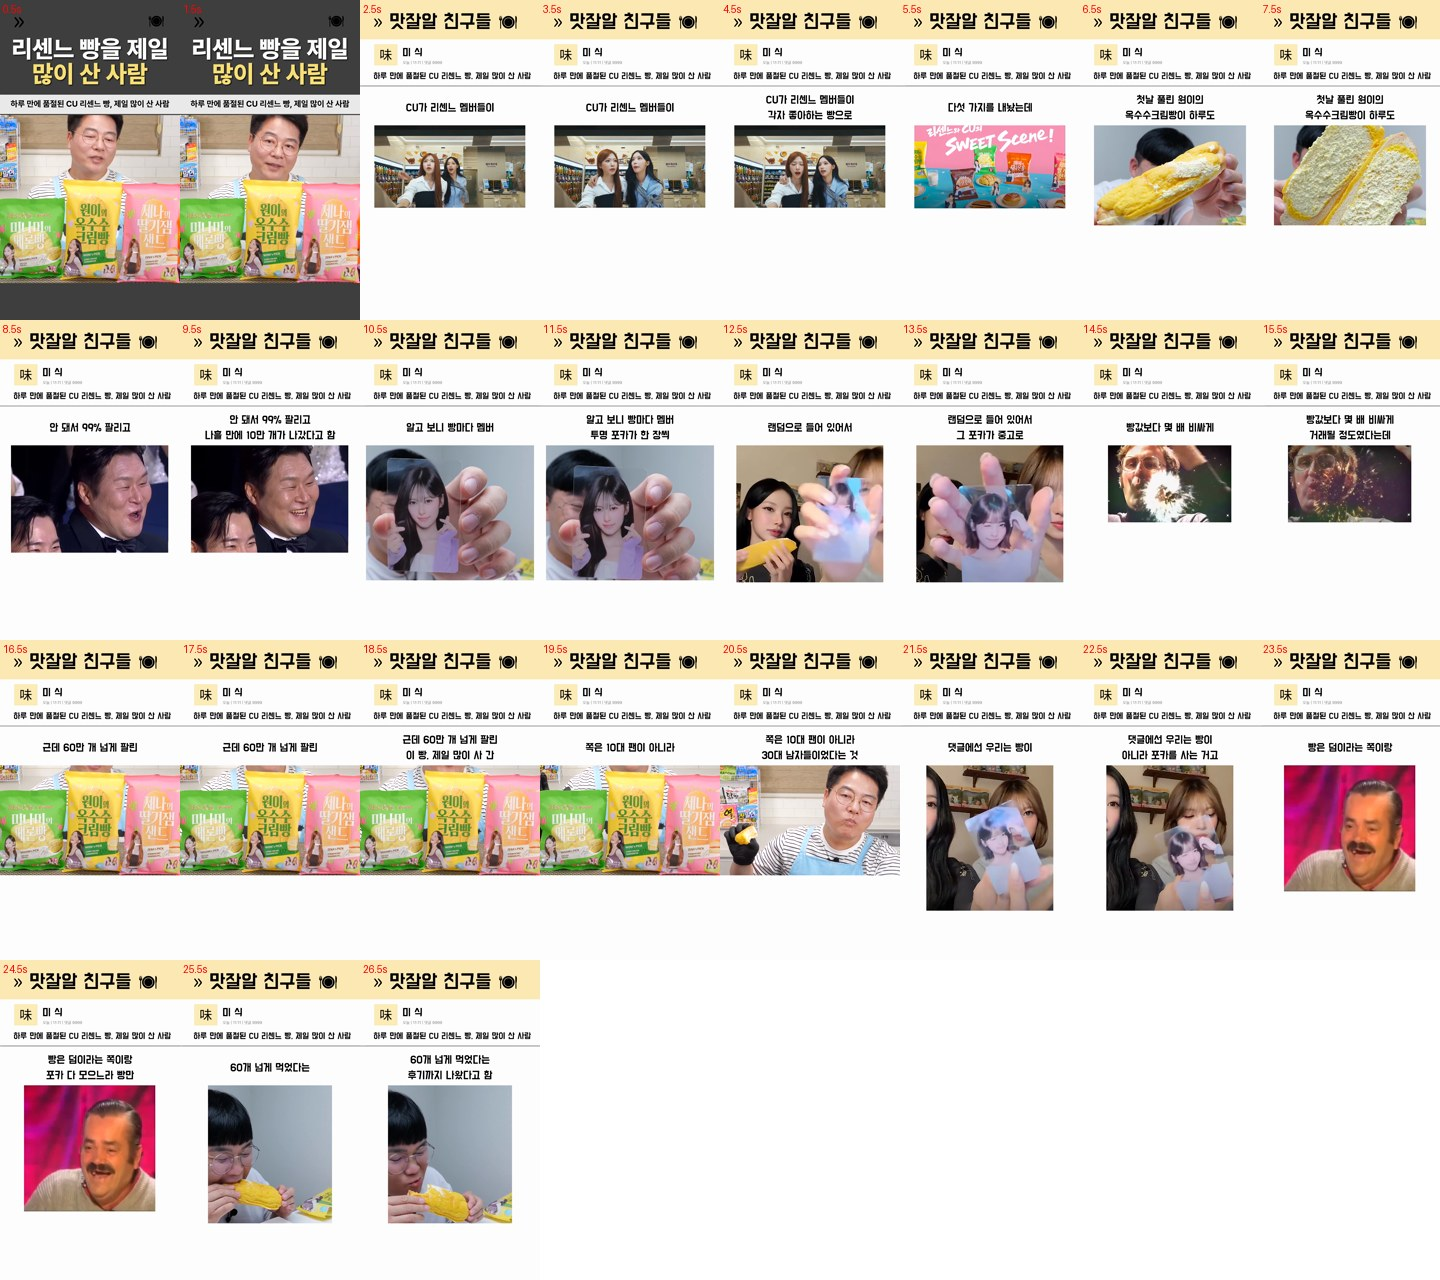
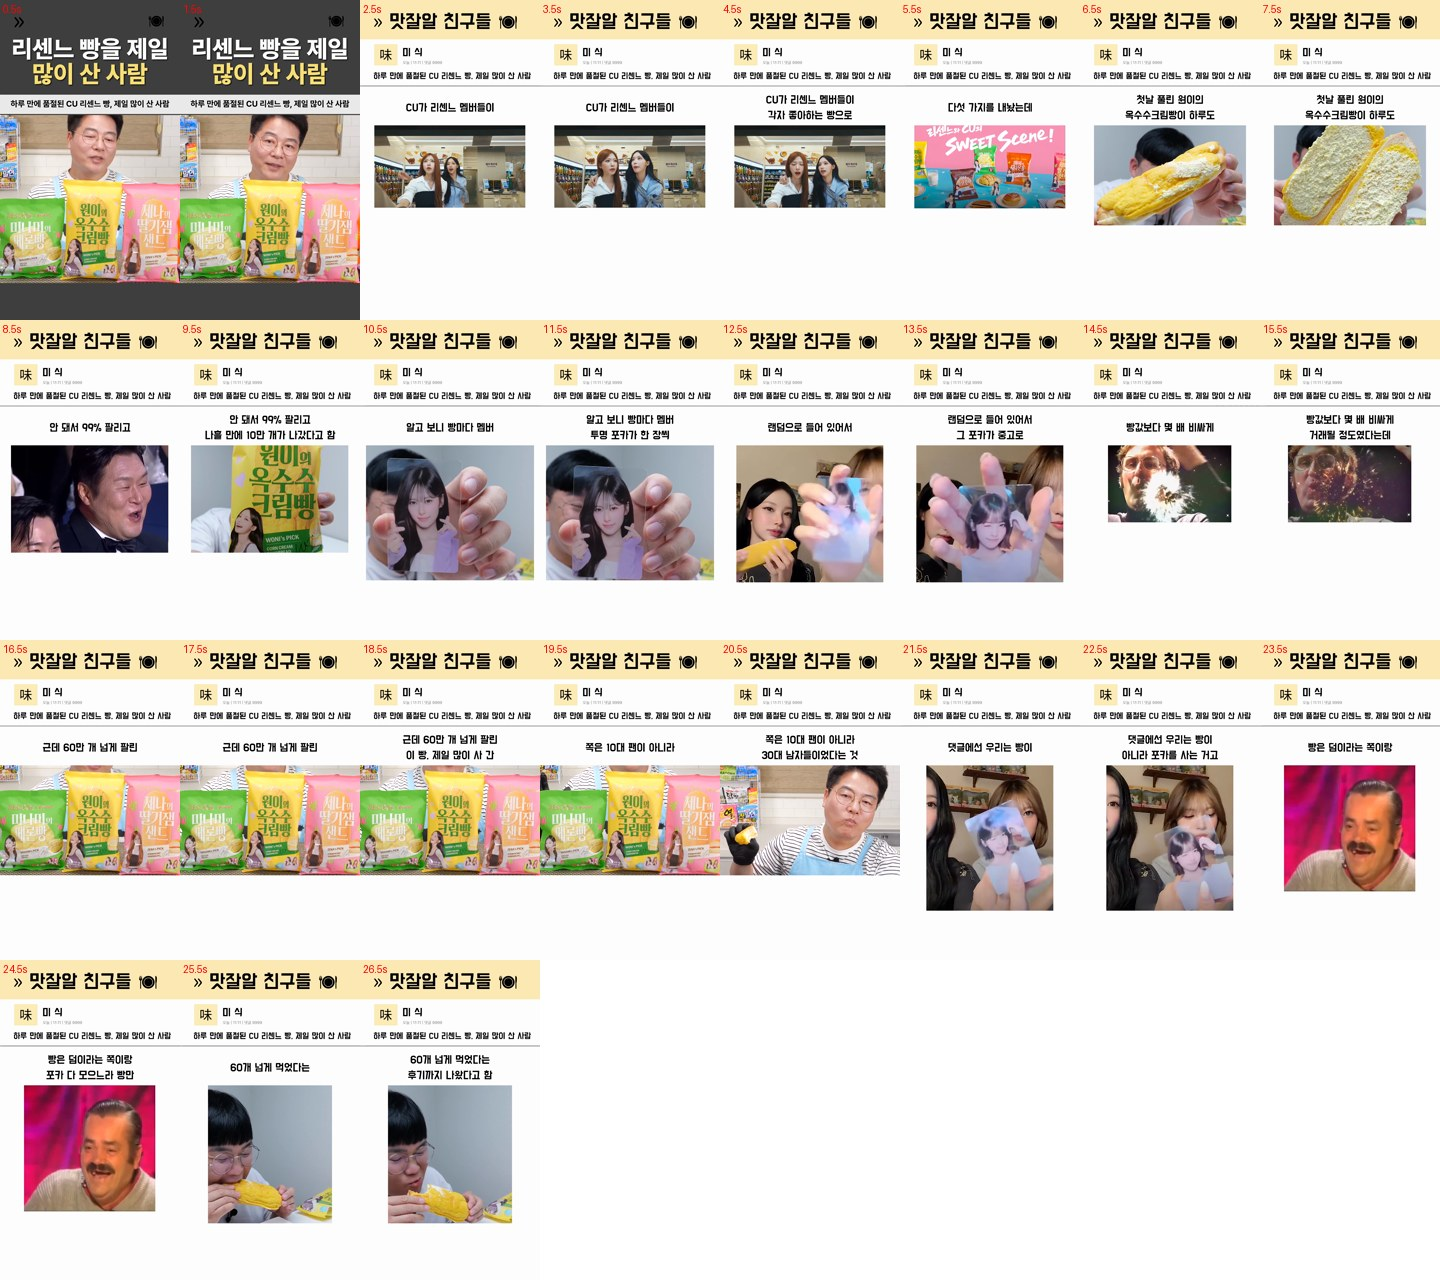
yummyknow 새 소재 2편 조건부 수정: #4 짤 1.6초 + 옥수수크림빵 봉지 1.3초 합성 → 짤 비율 0.204(TTS 없이 재렌더) · 측정 샷 수 11 vs timeline 13컷을 경계별로 갈라 기록(못 잡은 경계 5·경계 아닌 검출 3) (관제 097)
Claude-Session: https://claude.ai/code/session_01BTrZqzTa3Berb8VK4gs4B4

Changed region(s): [[0.125, 0.3438, 0.25, 0.4375]]

diff --git a/channel/yummyknow/새소재_rescene_bread/대조/규칙표.md b/channel/yummyknow/새소재_rescene_bread/대조/규칙표.md
@@ -1,5 +1,7 @@
 # 규칙 대조 — yummyknow 채널 규칙(뜯기 rGFXQlS9Cp4·10편) vs 새 소재 2편(CU 리센느 빵) (2026-10-16)
 
+(2026-10-16 재렌더: #4 짤 1.6초로 줄임, TTS 재호출 없음)
+
 판정 기준: "채널 영상들 사이에 섞어도 티가 안 나는가" — 1초 시트 눈 검수 + 이 표. bench ① 픽셀 대조는 참고(`대조/차이표.md`: 33개 중 14개 안 — 가변 그림 칸 꼴이라 1편 16/33·rGFX 16/32 과 같은 성격). 우리 값 = timeline.json·audio.json·narr_full.mp3 실측.
 
 | 항목 | 원본/채널 | 우리 | 같음? |
@@ -7,10 +9,10 @@
 | 갈래 | 썰(사건→반응→반전→결말) | 썰(리센느 빵 출시 → 하루 99% → 진짜 이유 포카 → 반전: 최다 구매 30대 남성 → 댓글 '빵은 덤') | 같음 |
 | 길이 | 33.6초 | 27.4초 | **짧음(−18.6%, 기준 15% 밖)** — 대본 242자 × 8.82자/초 |
 | 틀 | 훅 카드 1.2~2.1초 → 흰 게시글, 헤더 연두/연노랑 두 갈래 | 훅 2.44초 → 게시글, **연노랑 갈래**(헤더 254,234,180·훅 2줄 노랑) | 같음(훅 0.3초 김 — 1편과 같음) |
-| 재료 비율(시간) | 남의영상재편집 0.80 · 짤 0.20 | 같은 소재 영상 0.75 · 우리 짤 팩 0.25 | **짤 +0.05** — 짤 #4 컷이 2.87초로 김(짤 2.24초 되풀이) |
+| 재료 비율(시간) | 남의영상재편집 0.80 · 짤 0.20 | **같은 소재 영상 0.796 · 우리 짤 팩 0.204**(재렌더 뒤 timeline.json 실측 — #4 를 짤 1.6초 + 옥수수크림빵 봉지 1.3초 합성으로) | 같음 |
 | 다른 제품·남의 그래픽 | 없음 | 없음 — 남의 자막·'짠!'·'그립감 좋다~'·출처 표기·로고·가격 라벨 src_crop 으로 뺌(1초 시트 확인) | 같음 |
-| 컷 수 / 컷 길이 중앙 | 15 / 1.97초 | 13(계획) · 측정 10 / 2.22초 | 비슷(+12.7%) — 측정 샷 수 10 < 계획 13: 장면 검출이 같은 소스가 이어지는 #8→#9(봉지 줄 연장) 같은 경계를 못 잡은 것으로 추정(컷별 대조는 안 함) |
-| 컷 길이 p90 | 3.2초 | 3.97초(측정) | 다름(+24%, 위 샷 병합 추정과 같은 원인으로 봄 — 미검증) |
+| 컷 수 / 컷 길이 중앙 | 15 / 1.97초 | timeline.json 13컷(경계 12) / 측정 2.00초 | 같음(+1.7%) |
+| 컷 길이 p90 | 3.2초 | 3.73초(측정) | 다름(+16.7%) — 아래 '측정 샷 수' 참고 |
 | 자막 | 누적형 1줄→2줄, 검정, 외곽선 없음 | 같음 | 같음 |
 | 자막 수 / 자막당 초 중앙 | 29 / 1.0초 | 23(측정) · 25단계(계획) / 1.0초 | 같음 |
 | 자막 등장 효과·강조색 | 없음 | 없음 | 같음 |
@@ -23,3 +25,11 @@
 | True Peak | −3.7 | −0.9 | 참고 |
 | 효과음 | 2발(시작·끝) | 2발(0초 swoosh_2 id80 · 27.23초 r3_pop_3 id78) | 같음 |
 | #9 나이 암시 | — | 조율자 지시대로 "30대 남자들" 줄 앞 절반 = 봉지 5종(8번 이어서), 뒤 절반만 남성 리뷰어 | 반영 |
+
+## 측정 샷 수(11) vs timeline.json 컷(13) — 갈라 본 것 (재렌더본, compare 와 같은 cuts.scene_detect·merge_close·cut_verify, 창 [0,752,1080,810])
+
+- timeline.json 경계 12개: 2.44 · 4.61 · 5.60 · 7.49 · 10.36 · 12.25 · 14.17 · 16.17 · 18.52 · 21.21 · 23.32 · 25.32
+- 검출 10개: 2.43 · 5.63 · 6.97 · 9.17 · 10.40 · 12.30 · 14.23 · 16.23 · 19.97 · 21.30
+- **못 잡은 경계 5개**: 4.61(#1 CU 매장→#2 키비주얼) · 7.49(#3 빵 근접→#4 짤) · 18.52(#8→#9, 같은 봉지 줄이 이어지는 자리 — 같은 소스라 안 잡히는 게 맞음) · 23.32(#10 포카→#11 짤) · 25.32(#11 짤→#12 먹방)
+- **경계가 아닌 검출 3개**: 6.97(#3 소스 안 컷 50.52초, 빵 근접→반 가른 빵) · 9.17(#4 합성 안 짤→봉지, 7.49+1.60=9.09) · 19.97(#9 합성 안 봉지 줄→리뷰어, 18.52+1.35=19.87)
+- 그래서 측정 11샷은 "같은 소스 경계를 못 센 것" 하나로 설명되지 않는다: 같은 소스 이음(18.52)은 1개뿐이고, 나머지 못 잡은 4개는 소스가 다른 경계다. 그 4개를 왜 못 잡았는지(칸 크기·자리 변화와 창 측정 [0,752,1080,810] 의 관계, 검출 문턱)는 **확인 안 함**.

diff --git a/channel/yummyknow/새소재_rescene_bread/대조/차이표.md b/channel/yummyknow/새소재_rescene_bread/대조/차이표.md
@@ -47,11 +47,11 @@
 | 자막 | 등장효과(최빈) | 없음 | 없음 | 같음 | 등장효과 종류(최빈) 같음 | 안 | `captions.caption_anim` |
 | 자막 | 자막당 초 중앙 | 1 | 1 | 0.0 (0.0%) | 자막당 초 중앙 차 ≤ 15% | 안 | `captions.caption_track(흔들림 구간 제외)` |
 | 자막 | 자막 개수 | 29 | 23 | -6 | 참고(설계에 기준 수치 없음) | 참고 | `captions.caption_track(흔들림 구간 제외)` |
-| 컷 | 컷 길이 중앙(초) | 1.966 | 2.216 | 0.25 (12.7%) | 컷 길이 중앙 차 ≤ 15% | 안 | `cuts.shot_lengths` |
-| 컷 | 컷 길이 p90(초) | 3.2 | 3.967 | 0.767 (24.0%) | 컷 길이 p90 차 ≤ 15% | **밖** | `cuts.shot_lengths` |
+| 컷 | 컷 길이 중앙(초) | 1.966 | 2 | 0.034 (1.7%) | 컷 길이 중앙 차 ≤ 15% | 안 | `cuts.shot_lengths` |
+| 컷 | 컷 길이 p90(초) | 3.2 | 3.734 | 0.534 (16.7%) | 컷 길이 p90 차 ≤ 15% | **밖** | `cuts.shot_lengths` |
 | 컷 | 첫 컷 시각(초) | 1.5 | 2.433 | 0.933 | 참고(설계에 기준 수치 없음) | 참고 | `cuts.shot_lengths` |
-| 컷 | 자막=컷 일치율(%) | 100 | 77.8 | -22.2 | 참고(설계에 기준 수치 없음) | 참고 | `cuts.cut_eq_sub` |
-| 컷 | 샷 수 | 15 | 10 | -5 | 참고(설계에 기준 수치 없음) | 참고 | `cuts.scene_detect+merge_close+cut_verify` |
+| 컷 | 자막=컷 일치율(%) | 100 | 70 | -30 | 참고(설계에 기준 수치 없음) | 참고 | `cuts.cut_eq_sub` |
+| 컷 | 샷 수 | 15 | 11 | -4 | 참고(설계에 기준 수치 없음) | 참고 | `cuts.scene_detect+merge_close+cut_verify` |
 | 소리 | True Peak(dBTP) | -3.7 | -0.9 | 2.8 | 참고(설계에 기준 수치 없음) | 참고 | `audio.ebur128` |
 | 길이 | 길이(초, 프레임÷fps) | 33.633 | 27.367 | -6.266 (18.6%) | 길이 차 ≤ 15% | **밖** | `probe.info` |
 

diff --git a/channel/yummyknow/새소재_rescene_bread/대조/해상도표.md b/channel/yummyknow/새소재_rescene_bread/대조/해상도표.md
@@ -8,7 +8,7 @@
 | 1 | 제품 영상 | v_LB3jV93Qc5c.mp4(CU 공식 광고) | 1920×1080 | 1920×880 | 906×495 | 0.56 | 2.17 |
 | 2 | 제품 영상 | v_vIIBDgj3YGc.mp4(뉴스1 안 CU 키비주얼) | 1920×1080 | 1920×860 | 906×498 | 0.58 | 1.00 |
 | 3 | 제품 영상 | v_mGCzCVzlG6s.mp4(흑백리뷰) | 1920×1080 | 1600×860 | 912×600 | 0.70 | 1.89 |
-| 4 | 짤(팩 962) | kr_cX_3IeDt8YA_181715.mp4 | 720×720 | 720×720 | 945×645 | 1.31 | 2.87 |
+| 4 | 짤 1.6초 + 제품 영상 1.3초(합성) | c04_짤1.6_빵봉지.mp4 ← 짤 962(720×720) + mGCz 7.15~8.45(1920×1080) | 720×720 · 1920×1080 | 720×491 · 1201×820 | 945×645 | 1.31 · 0.79 | 2.87 |
 | 5 | 제품 영상 | v_mGCzCVzlG6s.mp4 | 1920×1080 | 1920×860 | 1008×810 | 0.94 | 1.89 |
 | 6 | 제품 영상 | v_ltt0E8TbQKs.mp4(뉴스1 연예TV) | 1920×1080 | 1920×620 | 882×822 | **1.33** | 1.92 |
 | 7 | 짤(팩 1012) | fm_mindblown.mp4 | 1272×720 | 1272×720 | 741×462 | 0.64 | 2.00 |
